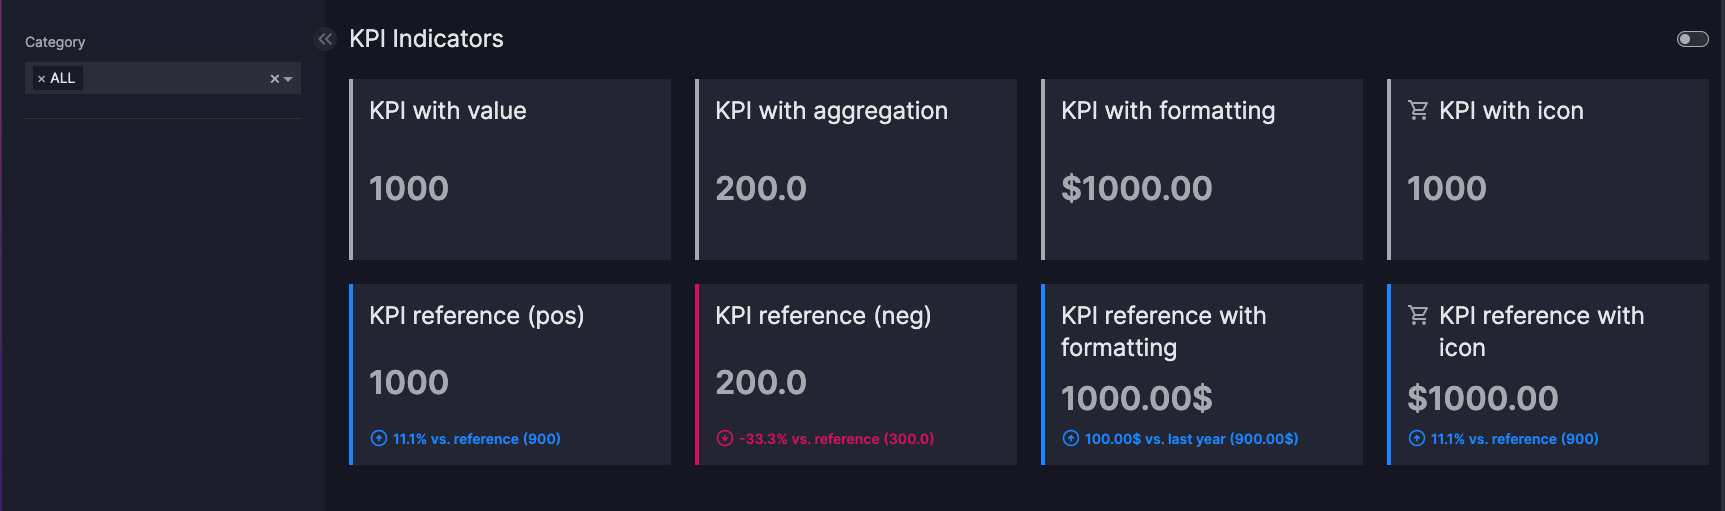
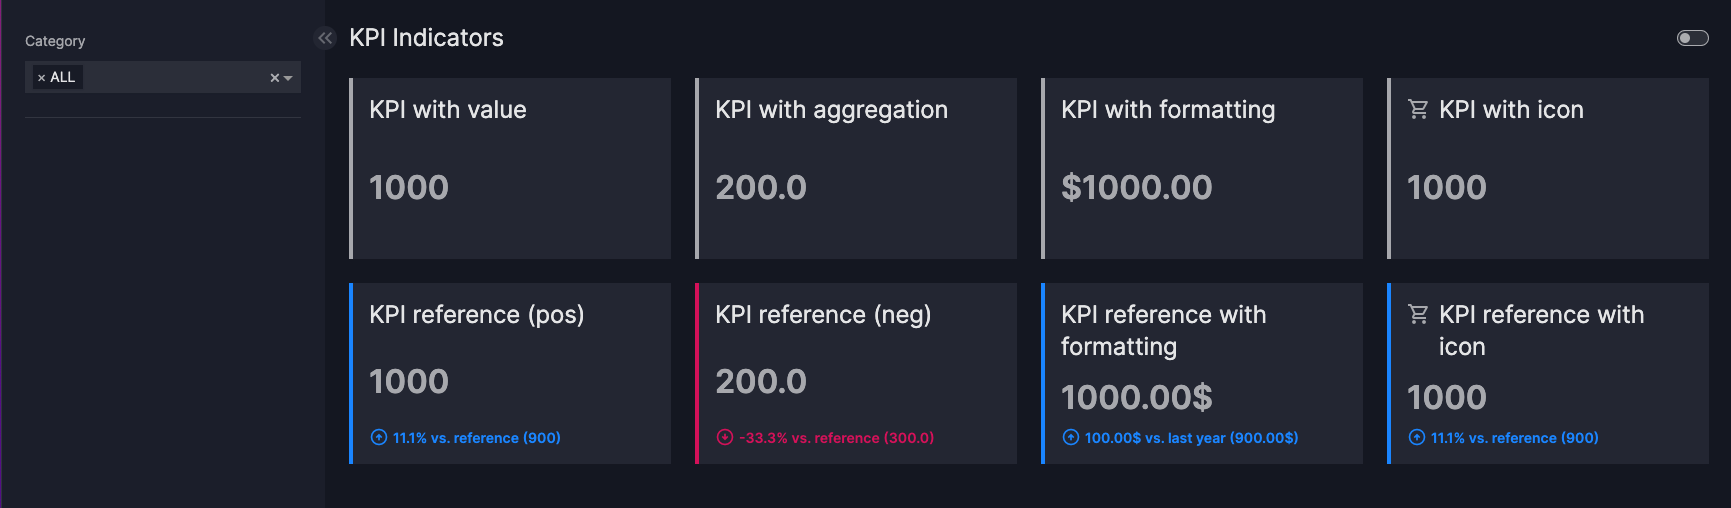
Consolidate pydantic and yaml example

diff --git a/vizro-core/examples/_dev/assets/css/custom.css b/vizro-core/examples/_dev/assets/css/custom.css
@@ -1,26 +1,3 @@
-.card-kpi-custom {
-  display: flex;
-  flex-direction: row;
-  gap: 16px;
-  height: unset;
-  padding: 14px;
-  width: unset;
-}
-
-.card-kpi-custom .material-symbols-outlined {
-  display: flex;
-  font-size: 8vh;
-}
-
-.card-kpi-custom .value {
-  align-items: center;
-  display: flex;
-  font-size: 4vh;
-  font-weight: 600;
-}
-
-.card-kpi-custom .value-and-title {
-  align-items: stretch;
-  display: flex;
-  flex-direction: column;
+#page-header {
+  padding-left: 8px;
 }

diff --git a/vizro-core/examples/_dev/app.py b/vizro-core/examples/_dev/app.py
@@ -5,19 +5,19 @@ import vizro.models as vm
 from vizro import Vizro
 from vizro.figures import kpi_card, kpi_card_reference
 
-df = pd.DataFrame({"Actual": [100, 200, 700], "Reference": [100, 300, 500], "Category": ["A", "B", "C"]})
+df_kpi = pd.DataFrame({"Actual": [100, 200, 700], "Reference": [100, 300, 500], "Category": ["A", "B", "C"]})
 
 example_cards = [
-    kpi_card(data_frame=df, value_column="Actual", title="KPI with value"),
-    kpi_card(data_frame=df, value_column="Actual", title="KPI with aggregation", agg_func="median"),
+    kpi_card(data_frame=df_kpi, value_column="Actual", title="KPI with value"),
+    kpi_card(data_frame=df_kpi, value_column="Actual", title="KPI with aggregation", agg_func="median"),
     kpi_card(
-        data_frame=df,
+        data_frame=df_kpi,
         value_column="Actual",
         title="KPI with formatting",
         value_format="${value:.2f}",
     ),
     kpi_card(
-        data_frame=df,
+        data_frame=df_kpi,
         value_column="Actual",
         title="KPI with icon",
         icon="shopping_cart",
@@ -26,20 +26,20 @@ example_cards = [
 
 example_reference_cards = [
     kpi_card_reference(
-        data_frame=df,
+        data_frame=df_kpi,
         value_column="Actual",
         reference_column="Reference",
         title="KPI reference (pos)",
     ),
     kpi_card_reference(
-        data_frame=df,
+        data_frame=df_kpi,
         value_column="Actual",
         reference_column="Reference",
         agg_func="median",
         title="KPI reference (neg)",
     ),
     kpi_card_reference(
-        data_frame=df,
+        data_frame=df_kpi,
         value_column="Actual",
         reference_column="Reference",
         title="KPI reference with formatting",
@@ -47,10 +47,9 @@ example_reference_cards = [
         reference_format="{delta:.2f}$ vs. last year ({reference:.2f}$)",
     ),
     kpi_card_reference(
-        data_frame=df,
+        data_frame=df_kpi,
         value_column="Actual",
         reference_column="Reference",
-        value_format="${value:.2f}",
         title="KPI reference with icon",
         icon="shopping_cart",
     ),

diff --git a/vizro-core/examples/_dev/yaml_version/app.py b/vizro-core/examples/_dev/yaml_version/app.py
@@ -23,6 +23,9 @@ df_stocks_long = pd.melt(
 )
 data_manager["df_stocks_long"] = df_stocks_long
 
+df_kpi = pd.DataFrame({"Actual": [100, 200, 700], "Reference": [100, 300, 500], "Category": ["A", "B", "C"]})
+data_manager["df_kpi"] = df_kpi
+
 dashboard = yaml.safe_load(Path("dashboard.yaml").read_text(encoding="utf-8"))
 dashboard = Dashboard(**dashboard)
 

diff --git a/vizro-core/docs/pages/user-guides/figure.md b/vizro-core/docs/pages/user-guides/figure.md
@@ -140,21 +140,21 @@ possible with the built-in functions then you can create a [custom figure](custo
         import pandas as pd
         import vizro.models as vm
         from vizro import Vizro
-        from vizro.figures import kpi_card, kpi_card_reference
+        from vizro.figures import kpi_card, kpi_card_reference  # (1)!  # (2)!
 
-        df = pd.DataFrame({"Actual": [100, 200, 700], "Reference": [100, 300, 500], "Category": ["A", "B", "C"]})
+        df_kpi = pd.DataFrame({"Actual": [100, 200, 700], "Reference": [100, 300, 500], "Category": ["A", "B", "C"]})
 
         example_cards = [
-            kpi_card(data_frame=df, value_column="Actual", title="KPI with value"),  # (1)!
-            kpi_card(data_frame=df, value_column="Actual", title="KPI with aggregation", agg_func="median"),
+            kpi_card(data_frame=df_kpi, value_column="Actual", title="KPI with value"),
+            kpi_card(data_frame=df_kpi, value_column="Actual", title="KPI with aggregation", agg_func="median"),
             kpi_card(
-                data_frame=df,
+                data_frame=df_kpi,
                 value_column="Actual",
                 title="KPI with formatting",
                 value_format="${value:.2f}",
             ),
             kpi_card(
-                data_frame=df,
+                data_frame=df_kpi,
                 value_column="Actual",
                 title="KPI with icon",
                 icon="shopping_cart",
@@ -162,21 +162,21 @@ possible with the built-in functions then you can create a [custom figure](custo
         ]
 
         example_reference_cards = [
-            kpi_card_reference(  # (2)!
-                data_frame=df,
+            kpi_card_reference(
+                data_frame=df_kpi,
                 value_column="Actual",
                 reference_column="Reference",
                 title="KPI reference (pos)",
             ),
             kpi_card_reference(
-                data_frame=df,
+                data_frame=df_kpi,
                 value_column="Actual",
                 reference_column="Reference",
                 agg_func="median",
                 title="KPI reference (neg)",
             ),
             kpi_card_reference(
-                data_frame=df,
+                data_frame=df_kpi,
                 value_column="Actual",
                 reference_column="Reference",
                 title="KPI reference with formatting",
@@ -184,10 +184,9 @@ possible with the built-in functions then you can create a [custom figure](custo
                 reference_format="{delta:.2f}$ vs. last year ({reference:.2f}$)",
             ),
             kpi_card_reference(
-                data_frame=df,
+                data_frame=df_kpi,
                 value_column="Actual",
                 reference_column="Reference",
-                value_format="${value:.2f}",
                 title="KPI reference with icon",
                 icon="shopping_cart",
             ),
@@ -216,26 +215,68 @@ possible with the built-in functions then you can create a [custom figure](custo
           - components:
               - figure:
                   _target_: kpi_card
-                  data_frame: tips
-                  value_column: tip
+                  data_frame: df_kpi
+                  value_column: Actual
+                  title: KPI with value
+                type: figure
+              - figure:
+                  _target_: kpi_card
+                  data_frame: df_kpi
+                  value_column: Actual
+                  title: KPI with aggregation
+                  agg_func: median
+                type: figure
+              - figure:
+                  _target_: kpi_card
+                  data_frame: df_kpi
+                  value_column: Actual
+                  title: KPI with formatting
                   value_format: ${value:.2f}
+                type: figure
+              - figure:
+                  _target_: kpi_card
+                  data_frame: df_kpi
+                  value_column: Actual
+                  title: KPI with icon
                   icon: shopping_cart
-                  title: KPI Card I
+                type: figure
+              - figure:
+                  _target_: kpi_card_reference
+                  data_frame: df_kpi
+                  value_column: Actual
+                  reference_column: Reference
+                  title: KPI reference (pos)
+                type: figure
+              - figure:
+                  _target_: kpi_card_reference
+                  data_frame: df_kpi
+                  value_column: Actual
+                  reference_column: Reference
+                  agg_func: median
+                  title: KPI reference (neg)
+                type: figure
+              - figure:
+                  _target_: kpi_card_reference
+                  data_frame: df_kpi
+                  value_column: Actual
+                  reference_column: Reference
+                  title: KPI reference with formatting
+                  value_format: "{value:.2f}$"
+                  reference_format: "{delta:.2f}$ vs. last year ({reference:.2f}$)"
+                type: figure
+              - figure:
+                  _target_: kpi_card_reference
+                  data_frame: df_kpi
+                  value_column: Actual
+                  reference_column: Reference
+                  title: KPI reference with icon
+                  icon: shopping_cart
                 type: figure
             controls:
-              - column: day
+              - column: Category
                 type: filter
-                selector:
-                  type: radio_items
             layout:
-              grid:
-                [
-                  [0, -1, -1, -1],
-                  [-1, -1, -1, -1],
-                  [-1, -1, -1, -1],
-                  [-1, -1, -1, -1],
-                  [-1, -1, -1, -1],
-                ]
+              grid: [[0, 1, 2, 3], [4, 5, 6, 7], [-1, -1, -1, -1], [-1, -1, -1, -1]]
             title: KPI Indicators
         ```
     === "Result"
